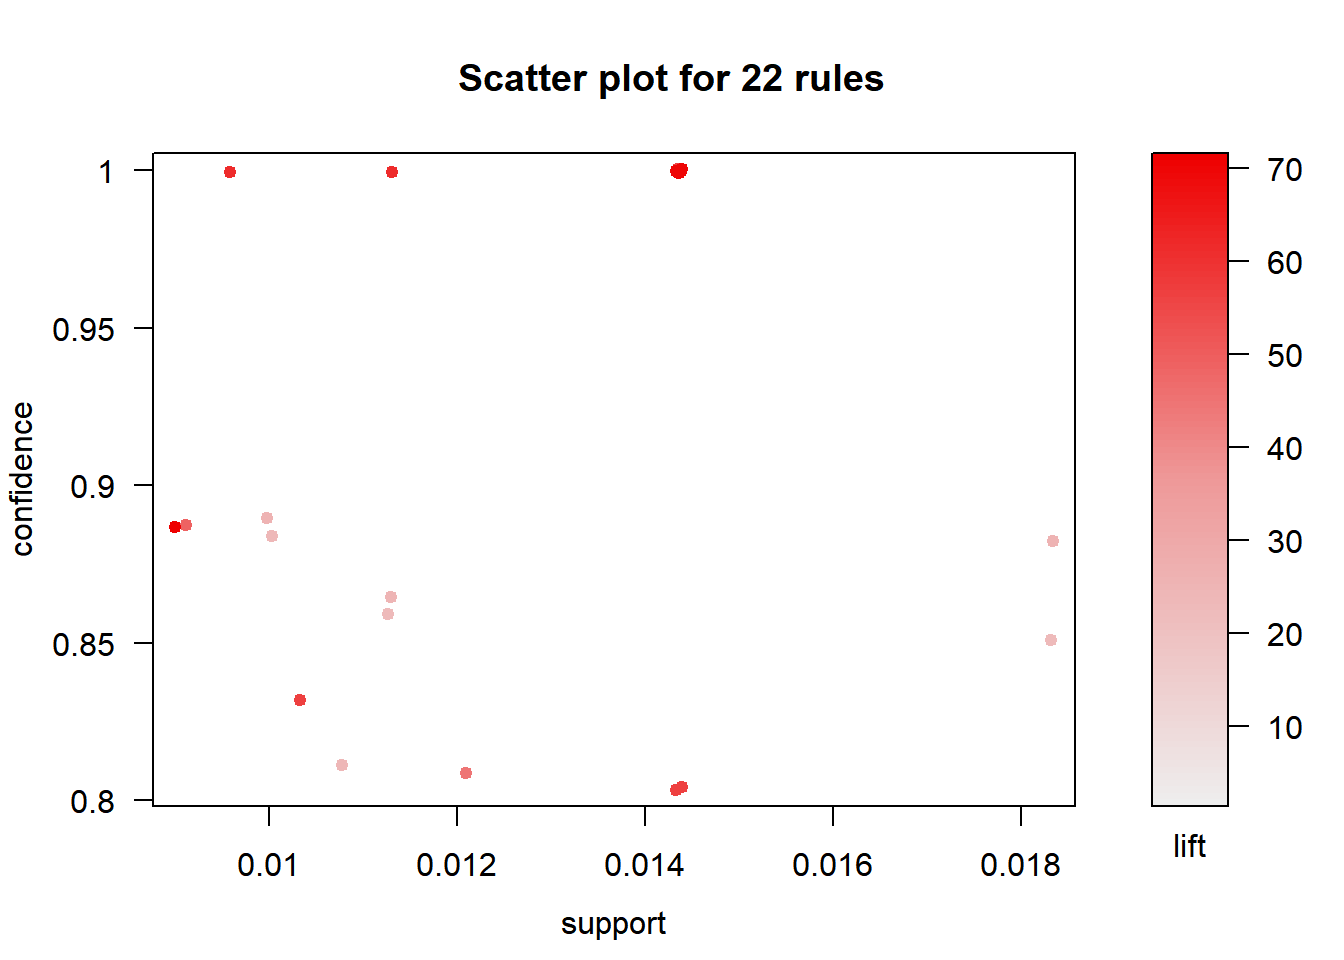
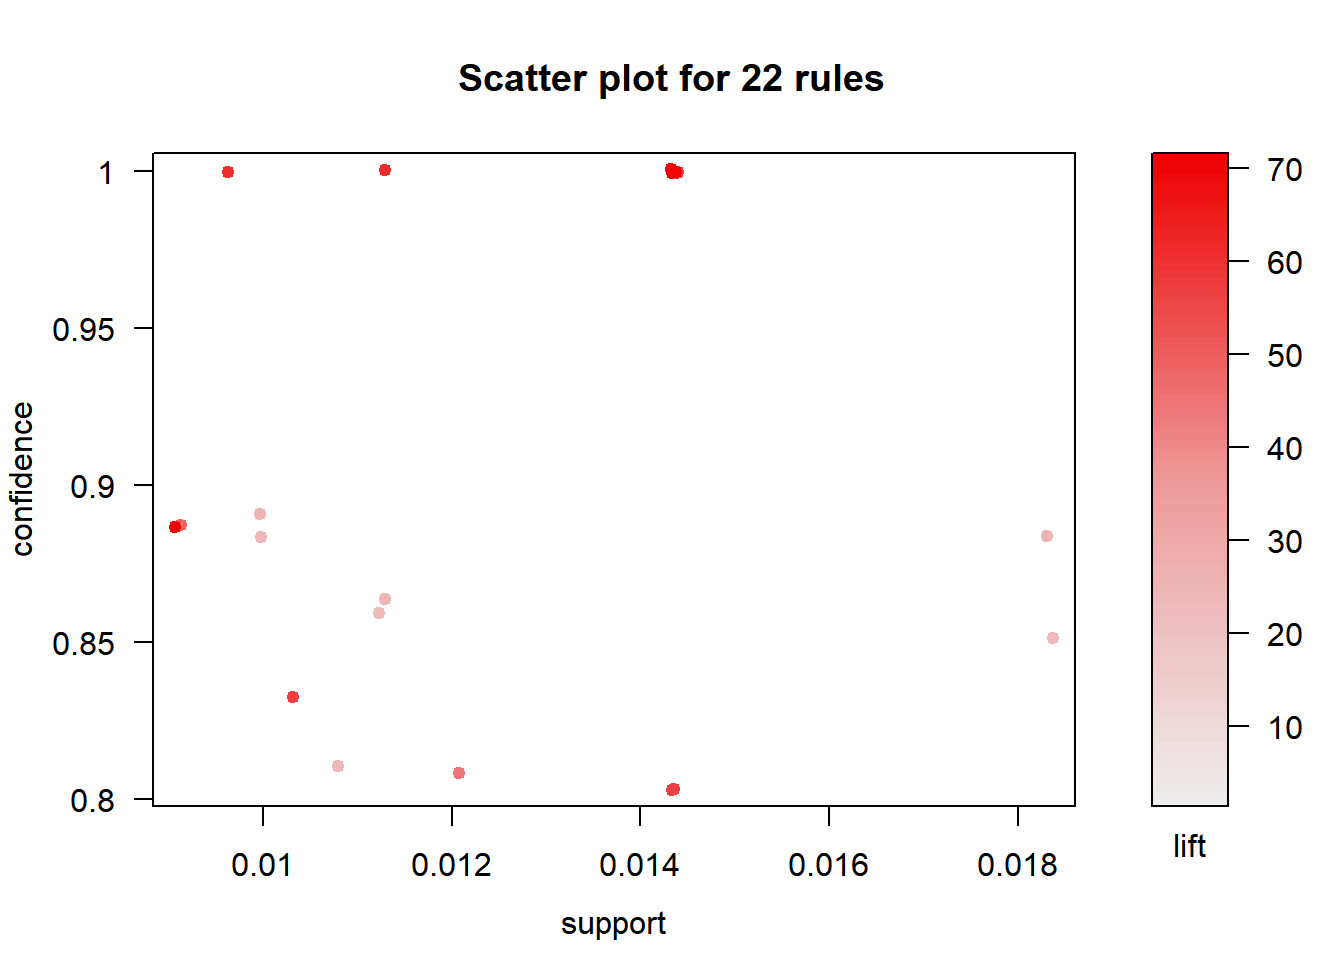
minor revisions

diff --git a/content/post/2019-05-02-mba.html b/content/post/2019-05-02-mba.html
@@ -2,7 +2,7 @@
 title: "Practical Introduction to Market Basket Analysis - Asociation Rules"
 author: Aravind Hebbali
 twitterImg: /img/cover_image.jpg
-description: "Practical Introduction to Market Basket Analysis"
+description: "Learn the what, why and how of market basket analysis in R"
 date: '2019-05-02'
 slug: market-basket-analysis-in-r
 categories:
@@ -13,7 +13,7 @@ tags:
 
 
 
-<p><img src="/img/mba_meme.jpg" style="display: block; margin: auto;" /></p>
+<p><img src="/img/mba_meme.jpg" width="50%" style="display: block; margin: auto;" /></p>
 <div id="introduction" class="section level2">
 <h2>Introduction</h2>
 <p><img src="/img/mba_intro.png" width="80%" style="display: block; margin: auto;" /></p>
@@ -222,15 +222,8 @@ required by the <strong>arules</strong> package.</p>
 </div>
 <div id="libraries" class="section level2">
 <h2>Libraries</h2>
-<p>We have created a tiny R package
-<a href="" target="_blank">mbar</a>, for data pre-processing. It can be
-installed from GitHub as shown below:</p>
-<pre class="r"><code># install.packages(&quot;devtools&quot;)
-devtools::install_github(&quot;rsquaredacademy/mbar&quot;)</code></pre>
-<p>Other than mbar, we will be using the following packages:</p>
 <pre class="r"><code>library(readxl)
 library(readr)
-library(mbar)
 library(arules)
 library(arulesViz)
 library(magrittr)
@@ -241,22 +234,30 @@ library(ggplot2)</code></pre>
 </div>
 <div id="preprocessing" class="section level2">
 <h2>Preprocessing</h2>
+<p>This section is optional. You can skip to the <strong>Read Data</strong> section without
+any loss of continuity.</p>
 <p><img src="/img/mba_pre_process.png" width="80%" style="display: block; margin: auto;" /></p>
-<p>As shown above, the data set has one row per item. We will use
-<code>mbar_prep_data()</code> from the mbar package to reshape the data so that there is
-one row per transaction with items across columns exclusing the column names.</p>
-<pre class="r"><code>mba_data     &lt;- read_excel(&quot;online-retail.xlsx&quot;)
+<p>As shown above, the data set has one row per item. We have created a tiny R
+package <a href="https://github.com/rsquaredacademy/mbar" target="_blank">mbar</a>,<br />
+for data pre-processing. It can be installed from GitHub as shown below:</p>
+<pre class="r"><code># install.packages(&quot;devtools&quot;)
+devtools::install_github(&quot;rsquaredacademy/mbar&quot;)</code></pre>
+<p>We will use <code>mbar_prep_data()</code> from the mbar package to reshape the data so
+that there is one row per transaction with items across columns excluding
+the column names.</p>
+<pre class="r"><code>library(mbar)
+mba_data     &lt;- read_excel(&quot;online-retail.xlsx&quot;)
 transactions &lt;- mbar_prep_data(mba_data, InvoiceNo, Description)
 head(transactions)</code></pre>
 <pre><code>## # A tibble: 6 x 1,114
 ##   item_1 item_2 item_3 item_4 item_5 item_6 item_7 item_8 item_9 item_10
 ##   &lt;chr&gt;  &lt;chr&gt;  &lt;chr&gt;  &lt;chr&gt;  &lt;chr&gt;  &lt;chr&gt;  &lt;chr&gt;  &lt;chr&gt;  &lt;chr&gt;  &lt;chr&gt;  
-## 1 BATH ~ &quot;&quot;     &quot;&quot;     &quot;&quot;     &quot;&quot;     &quot;&quot;     &quot;&quot;     &quot;&quot;     &quot;&quot;     &quot;&quot;     
-## 2 PAPER~ &quot;&quot;     &quot;&quot;     &quot;&quot;     &quot;&quot;     &quot;&quot;     &quot;&quot;     &quot;&quot;     &quot;&quot;     &quot;&quot;     
-## 3 VICTO~ &quot;&quot;     &quot;&quot;     &quot;&quot;     &quot;&quot;     &quot;&quot;     &quot;&quot;     &quot;&quot;     &quot;&quot;     &quot;&quot;     
-## 4 JAM M~ &quot;&quot;     &quot;&quot;     &quot;&quot;     &quot;&quot;     &quot;&quot;     &quot;&quot;     &quot;&quot;     &quot;&quot;     &quot;&quot;     
-## 5 Disco~ &quot;&quot;     &quot;&quot;     &quot;&quot;     &quot;&quot;     &quot;&quot;     &quot;&quot;     &quot;&quot;     &quot;&quot;     &quot;&quot;     
-## 6 SET O~ &quot;&quot;     &quot;&quot;     &quot;&quot;     &quot;&quot;     &quot;&quot;     &quot;&quot;     &quot;&quot;     &quot;&quot;     &quot;&quot;     
+## 1 WHITE~ WHITE~ CREAM~ KNITT~ RED W~ SET 7~ GLASS~ &quot;&quot;     &quot;&quot;     &quot;&quot;     
+## 2 HAND ~ HAND ~ &quot;&quot;     &quot;&quot;     &quot;&quot;     &quot;&quot;     &quot;&quot;     &quot;&quot;     &quot;&quot;     &quot;&quot;     
+## 3 ASSOR~ POPPY~ POPPY~ FELTC~ IVORY~ BOX O~ BOX O~ BOX O~ HOME ~ LOVE B~
+## 4 JAM M~ RED C~ YELLO~ BLUE ~ &quot;&quot;     &quot;&quot;     &quot;&quot;     &quot;&quot;     &quot;&quot;     &quot;&quot;     
+## 5 BATH ~ &quot;&quot;     &quot;&quot;     &quot;&quot;     &quot;&quot;     &quot;&quot;     &quot;&quot;     &quot;&quot;     &quot;&quot;     &quot;&quot;     
+## 6 ALARM~ ALARM~ ALARM~ PANDA~ STARS~ INFLA~ VINTA~ SET/2~ ROUND~ SPACEB~
 ## # ... with 1,104 more variables: item_11 &lt;chr&gt;, item_12 &lt;chr&gt;,
 ## #   item_13 &lt;chr&gt;, item_14 &lt;chr&gt;, item_15 &lt;chr&gt;, item_16 &lt;chr&gt;,
 ## #   item_17 &lt;chr&gt;, item_18 &lt;chr&gt;, item_19 &lt;chr&gt;, item_20 &lt;chr&gt;,
@@ -387,7 +388,7 @@ should be set to the value <code>single</code> and the <code>cols</code> argumen
 the names or positions of the columns that represent the <strong>transaction id</strong> and
 <strong>item id</strong>. We tried to read data in this way as well but failed to do so.
 However, the code is available below for other users to try and let us know if
-you find a way to get it to work.</p>
+you find a way to get it to work or spot any mistakes we may have made.</p>
 <pre class="r"><code>get_data &lt;- read.transactions(&quot;retail.csv&quot;, 
   format = &quot;single&quot;,
   sep = &quot;,&quot;,
@@ -482,7 +483,7 @@ and the <code>type</code> argument can be used to specify whether the <code>Y</c
 absolute/relative frequency of the items.</p>
 <pre class="r"><code>itemFrequencyPlot(basket_data, topN = 10, type = &#39;absolute&#39;)</code></pre>
 <p><img src="/post/2019-05-02-mba_files/figure-html/plot_freq-1.png" width="672" style="display: block; margin: auto;" /></p>
-<p>In the below, plot the <code>Y</code> axis represents the relative frequency of the items
+<p>In the below plot, the <code>Y</code> axis represents the relative frequency of the items
 plotted.</p>
 <pre class="r"><code>itemFrequencyPlot(basket_data, topN = 10, type = &#39;relative&#39;)</code></pre>
 <p><img src="/post/2019-05-02-mba_files/figure-html/plot_freq_relative-1.png" width="672" style="display: block; margin: auto;" /></p>
@@ -490,7 +491,7 @@ plotted.</p>
 </div>
 <div id="generate-rules" class="section level2">
 <h2>Generate Rules</h2>
-<p>Finally, what you have been waiting for. Let us generate some rules. The
+<p>Finally, to the part you all have been waiting for, rules generation. The
 <code>apriori()</code> function is used for generating the rules. We will first learn the
 different inputs that must be specified and later on play around with them and
 see how the rules generated change.</p>
@@ -531,16 +532,16 @@ time and the process will eventually run out of memory.</p>
 ## Absolute minimum support count: 233 
 ## 
 ## set item appearances ...[0 item(s)] done [0.00s].
-## set transactions ...[10085 item(s), 25901 transaction(s)] done [1.27s].
-## sorting and recoding items ... [508 item(s)] done [0.03s].
+## set transactions ...[10085 item(s), 25901 transaction(s)] done [1.09s].
+## sorting and recoding items ... [508 item(s)] done [0.05s].
 ## creating transaction tree ... done [0.08s].
 ## checking subsets of size 1 2 3 4</code></pre>
 <pre><code>## Warning in apriori(basket_data, parameter = list(supp = 0.009, conf =
 ## 0.8, : Mining stopped (maxlen reached). Only patterns up to a length of 4
 ## returned!</code></pre>
-<pre><code>##  done [0.12s].
+<pre><code>##  done [0.08s].
 ## writing ... [22 rule(s)] done [0.00s].
-## creating S4 object  ... done [0.02s].</code></pre>
+## creating S4 object  ... done [0.03s].</code></pre>
 <p>Change the values of <code>supp</code>, <code>conf</code> and <code>maxlen</code>, and observe how the rules
 generated change.</p>
 </div>
@@ -723,11 +724,11 @@ sugar can appear on the left hand side of the rule by default.</p>
 ## Absolute minimum support count: 233 
 ## 
 ## set item appearances ...[1 item(s)] done [0.00s].
-## set transactions ...[10085 item(s), 25901 transaction(s)] done [1.40s].
+## set transactions ...[10085 item(s), 25901 transaction(s)] done [1.45s].
 ## sorting and recoding items ... [508 item(s)] done [0.03s].
-## creating transaction tree ... done [0.08s].
-## checking subsets of size 1 2 3 4 done [0.10s].
-## writing ... [3 rule(s)] done [0.01s].
+## creating transaction tree ... done [0.05s].
+## checking subsets of size 1 2 3 4 done [0.17s].
+## writing ... [3 rule(s)] done [0.00s].
 ## creating S4 object  ... done [0.02s].</code></pre>
 <pre class="r"><code>rules_sugar &lt;- sort(sugar_rules, by = &quot;confidence&quot;, decreasing = TRUE)
 inspect(rules_sugar)</code></pre>
@@ -775,10 +776,10 @@ hand side of the rule by default.</p>
 ## Absolute minimum support count: 233 
 ## 
 ## set item appearances ...[1 item(s)] done [0.00s].
-## set transactions ...[10085 item(s), 25901 transaction(s)] done [1.12s].
+## set transactions ...[10085 item(s), 25901 transaction(s)] done [1.65s].
 ## sorting and recoding items ... [508 item(s)] done [0.03s].
-## creating transaction tree ... done [0.07s].
-## checking subsets of size 1 2 done [0.02s].
+## creating transaction tree ... done [0.05s].
+## checking subsets of size 1 2 done [0.03s].
 ## writing ... [2 rule(s)] done [0.00s].
 ## creating S4 object  ... done [0.02s].</code></pre>
 <pre class="r"><code>rules_sugar &lt;- sort(sugar_rules, by = &quot;confidence&quot;, decreasing = TRUE)
@@ -912,9 +913,8 @@ associated with them.</p>
 </div>
 <div id="summary" class="section level2">
 <h2>Summary</h2>
-<p><img src="/img/mba_summary_meme.jpg" width="80%" style="display: block; margin: auto;" /></p>
 <ul>
-<li>unsupervised data mining technique</li>
+<li>market basket analysis is an unsupervised data mining technique</li>
 <li>uncovers products frequently bought together</li>
 <li>creates if-then scenario rules</li>
 <li>cost-effective, insightful and actionable</li>
@@ -922,6 +922,7 @@ associated with them.</p>
 <li>directionality of rule is lost while using lift</li>
 <li>confidence as a measure can be misleading</li>
 </ul>
+<p><img src="/img/mba_summary_meme.jpg" width="80%" style="display: block; margin: auto;" /></p>
 <p>Your knowledge of the domain/business matters a lot when you are trying to
 use market basket analysis. Especially, when you are trying to select or
 shortlist rules and use them for product placement in a store or for
